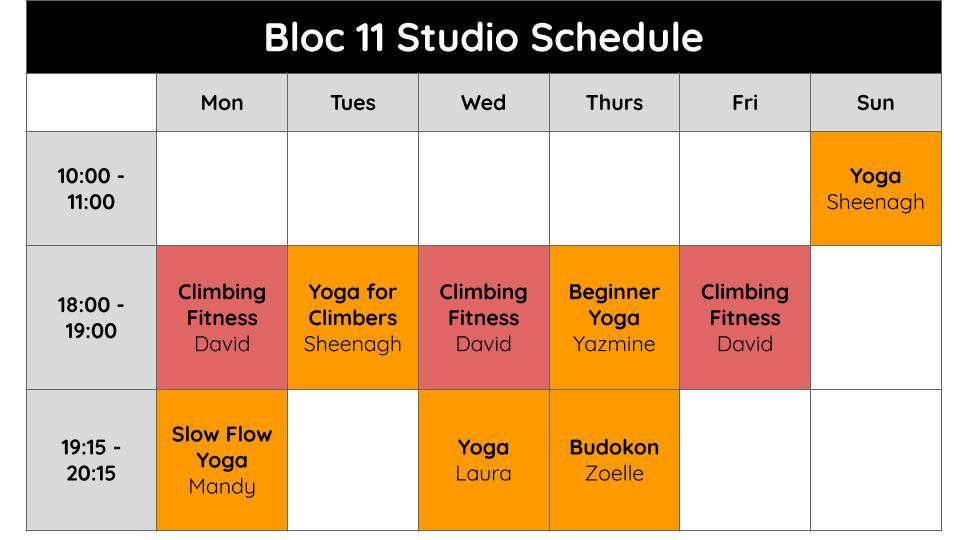
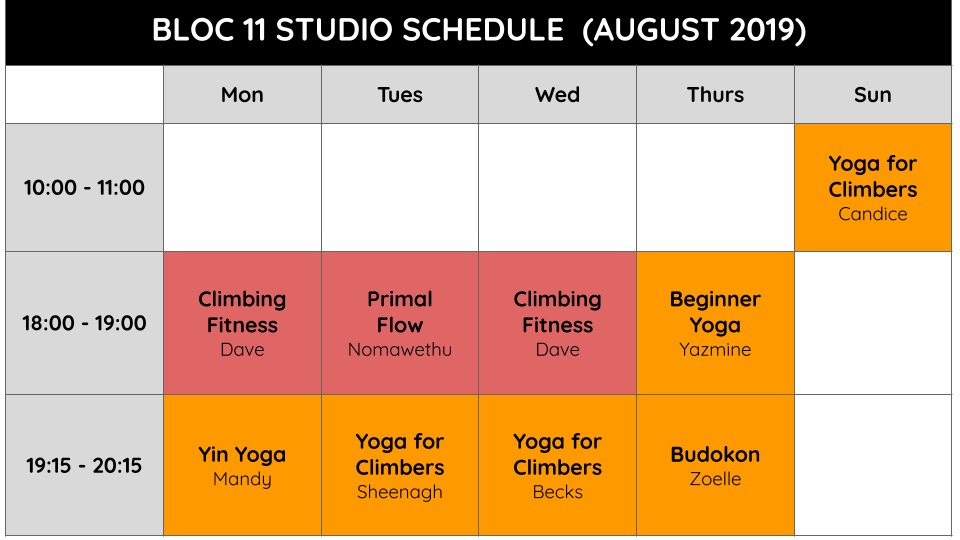
update yoga schedule

diff --git a/index.html b/index.html
@@ -235,15 +235,13 @@
                         <a href="img/yoga/schedule.jpg">
                             <img src="img/yoga/schedule.jpg" alt="Bloc11 yoga schedule" style="width: 100%" />
                         </a>
-                        <h4>Slow Flow Yoga</h4>
+                        <h4>Yin Yoga</h4>
                         <p>A physically accessible class focused on breathing and stretching. A great slow, strong, and calm yoga practice to start your week!</p>
 
-                        <h4>Yoga</h4>
+                        <h4>Yoga for Climbers</h4>
                         <p>Increase your hip and shoulder mobility with these intermediate vinyasa-style flows: breathe, sweat, balance.</p>
-
-                        <h4>Yoga Drills</h4>
-                        <p>A gym-style workout, incorporating repetitive motions into your yoga practice,
-                            to build endurance, work your deep core, and reach your yoga asana goals!</p>
+                        <h4>Beginner Yoga</h4>
+                        <p>Can't touch your toes? Holds feeling far apart? Yoga is great for climbers! Learn to stretch and work your deep core at the same time, on the mat and on the wall. </p>
 
                         <h4>Climbing Fitness</h4>
                         <p>Fun, repetitive muscle isolation exercises focused on deep core stability to build strength,
